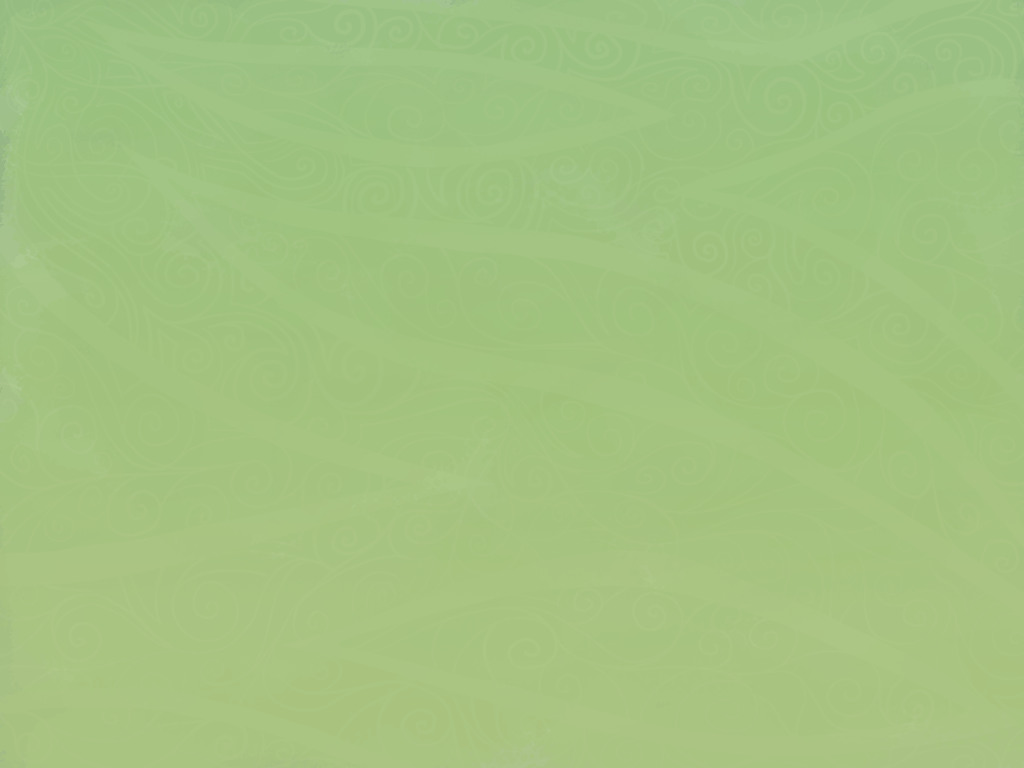
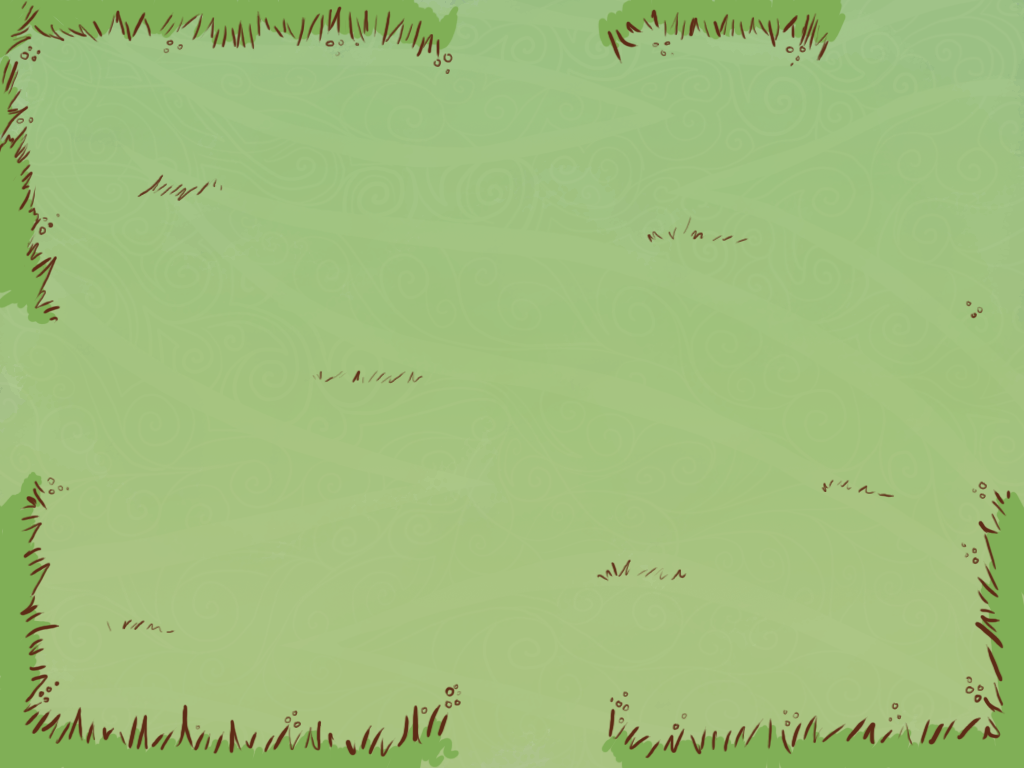
Added new images

diff --git a/js/states/preload.js b/js/states/preload.js
@@ -26,6 +26,9 @@ Preload.prototype = {
 		game.load.image('test2', 'assets/images/test2.jpg');
 		game.load.image('test3', 'assets/images/test3.jpg');
 
+		// Directions
+		game.load.image('directions', 'assets/images/Directions.png');
+
 		//Backgrounds
 		game.load.image('background-stage-1', 'assets/images/Background.png');
 		game.load.image('stage-mask', 'assets/images/stage-mask.jpg');

diff --git a/js/GameStage.js b/js/GameStage.js
@@ -17,6 +17,8 @@ GameStage.prototype = {
 
         //Background
         game.add.image(0, 0, this.stageData.background);
+        // Directions
+        game.add.image(0, 0, 'directions');
 
         // initialize the queen bee
         this.queenBee = new QueenBee();
